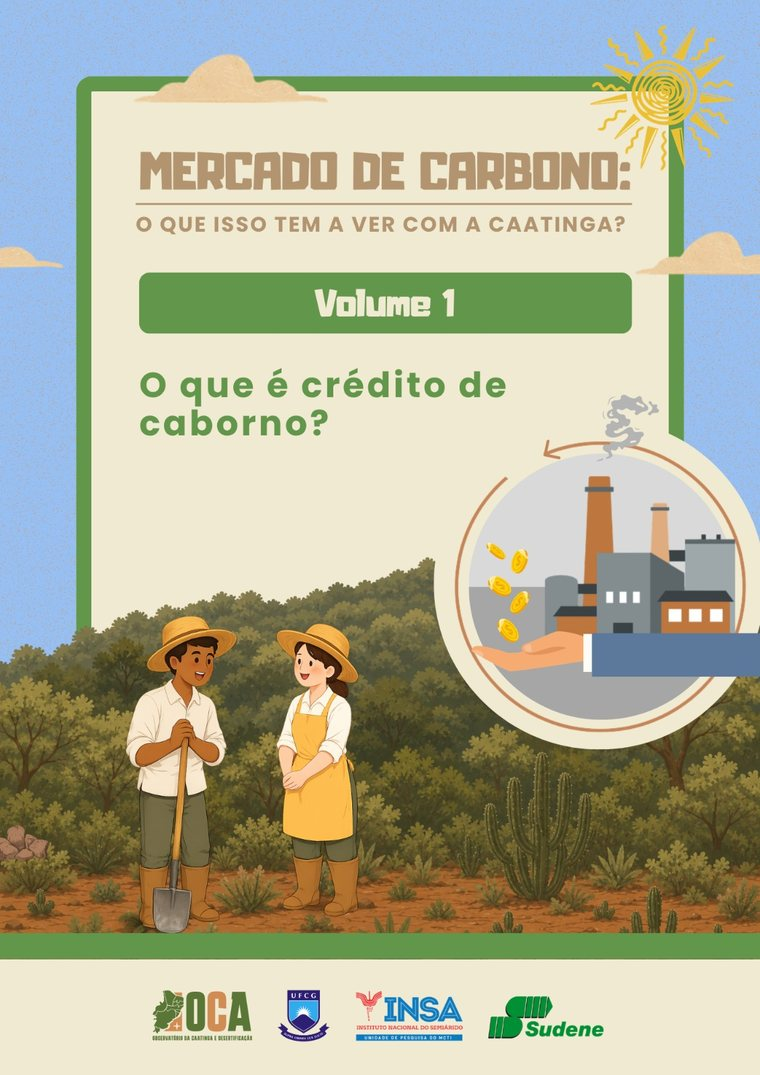
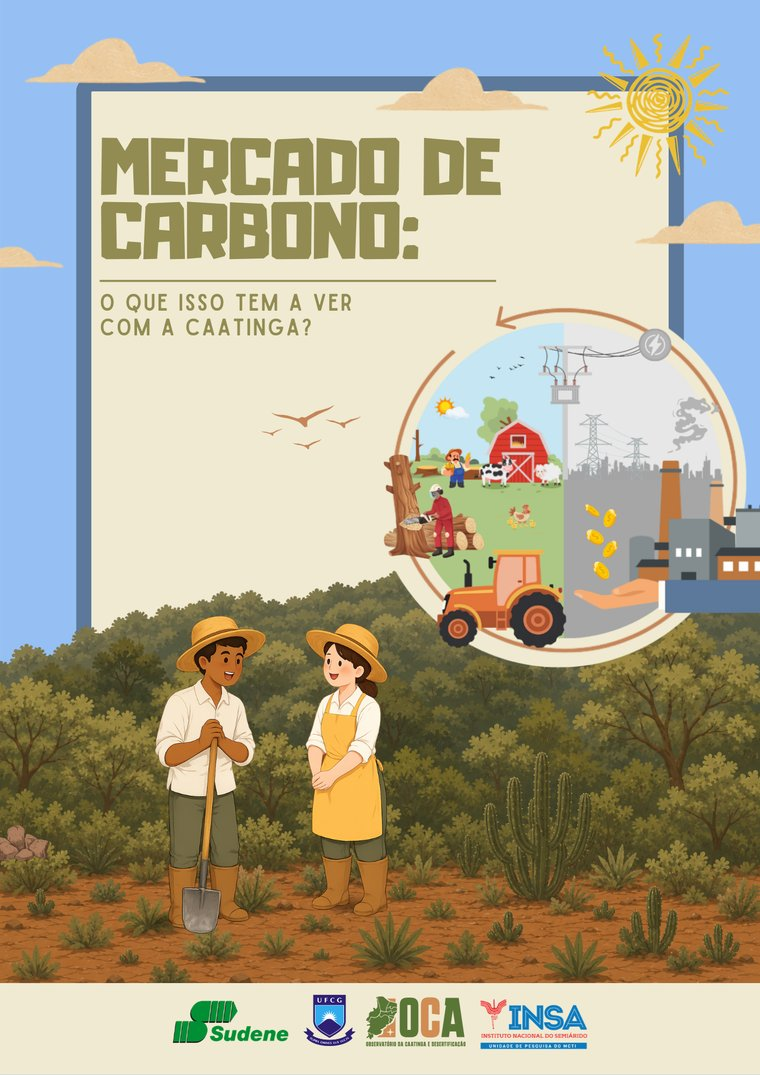
feat: ship a single cartilha with its new cover and title
The four-volume collection gave way to the one cartilha that has a PDF.
Its fallback copy now carries the cover and title of that publication,
"Mercado de carbono: o que isso tem a ver com a Caatinga?", which is also
what the Figma cards read. The slug stays, so shared links keep working.

The Contentful space was changed to match: a new cover asset on the
Volume 1 entry, the new title, and volumes 2 to 4 unpublished.

diff --git a/components/marketing/Comunicacao.tsx b/components/marketing/Comunicacao.tsx
@@ -36,21 +36,16 @@ const FOTOS: Record<string, string> = {
 // description, plus a "Ver material" button on a card that has a publication page; on
 // touch screens, which have no hover, that expanded state is the resting
 // state (see Comunicacao.module.css). The module
-// ships four cartilhas plus one caderno; the design shows exactly two cards,
-// so the choice of which ones is fixed by the task brief rather than by this
-// component: cartilhas[0] (labelled "CARTILHA") on the left and the caderno
+// ships one cartilha plus one caderno, but Contentful may hold more cartilhas;
+// the design shows exactly two cards, so the choice of which ones is fixed by
+// the task brief rather than by this component: cartilhas[0] (labelled
+// "CARTILHA") on the left and the caderno
 // (labelled "CADERNO TEMÁTICO") on the right, the design's order (18862:8581,
 // 18862:8582). The header row's "Ver mais" opens the Comunicação page, which
 // lists every publication.
 export default function Comunicacao({ conteudo }: { conteudo: ComunicacaoContent }) {
   const [primeiraCartilha] = conteudo.cartilhas;
 
-  // Known content discrepancy, left for the content owner rather than
-  // resolved here: the Figma card reads "Mercado de carbono: o que isso tem
-  // a ver com a Caatinga?", which matches none of the four DEFAULT_CARTILHAS
-  // volumes (the nearest is "A Caatinga e o carbono: qual a relação?",
-  // volume 3). This renders whatever cartilhas[0] actually holds instead of
-  // hardcoding the Figma string.
   const cards: CardData[] = [
     ...(primeiraCartilha
       ? [

diff --git a/components/marketing/conteudo/RelatedContent.tsx b/components/marketing/conteudo/RelatedContent.tsx
@@ -5,9 +5,10 @@ import styles from "./RelatedContent.module.css";
 
 // "Conteúdos Relacionados", Figma node 19015:13091: the heading, then the same
 // cards on the same auto-fill grid as the Comunicação page (Publicacoes): five
-// 236px tracks at the 1276px container. With four publications the cards keep
-// the design's width and the fifth track stays empty, since the grid fills
-// tracks rather than stretching cards; narrower, it reflows down to one column.
+// 236px tracks at the 1276px container. With fewer than five publications the
+// cards keep the design's width and the remaining tracks stay empty, since the
+// grid fills tracks rather than stretching cards; narrower, it reflows down to
+// one column.
 // The id sits on the heading, not the wrapper (tests/lib/marketingNav.test.ts).
 export default function RelatedContent({ publicacoes }: { publicacoes: Publicacao[] }) {
   if (publicacoes.length === 0) return null;

diff --git a/lib/content/comunicacao.ts b/lib/content/comunicacao.ts
@@ -46,26 +46,8 @@ export const DEFAULT_CARTILHAS: Cartilha[] = [
   {
     slug: 'cartilha-1-o-que-e-credito-de-carbono',
     volume: 'Volume 1',
-    title: 'O que é crédito de carbono?',
+    title: 'Mercado de carbono: o que isso tem a ver com a Caatinga?',
     cover: '/images/cartilhas/vol1.jpg',
-  },
-  {
-    slug: 'cartilha-2-como-funciona-o-mercado-de-carbono',
-    volume: 'Volume 2',
-    title: 'Como funciona o mercado de carbono?',
-    cover: '/images/cartilhas/vol2.jpg',
-  },
-  {
-    slug: 'cartilha-3-a-caatinga-e-o-carbono',
-    volume: 'Volume 3',
-    title: 'A Caatinga e o carbono: qual a relação?',
-    cover: '/images/cartilhas/vol3.jpg',
-  },
-  {
-    slug: 'cartilha-4-desafios-e-caminhos',
-    volume: 'Volume 4',
-    title: 'Desafios e caminhos para um mercado de carbono que beneficia a todos',
-    cover: '/images/cartilhas/vol4.jpg',
   },
 ]
 

diff --git a/tests/lib/contentfulSpace.test.ts b/tests/lib/contentfulSpace.test.ts
@@ -47,12 +47,7 @@ describe.skipIf(!isContentfulConfigured(process.env))('the configured Contentful
   it('serves the comunicacao content through the application code', async () => {
     const content = await getComunicacaoContent(getContentfulClient())
 
-    expect(content.cartilhas.map((cartilha) => cartilha.volume)).toEqual([
-      'Volume 1',
-      'Volume 2',
-      'Volume 3',
-      'Volume 4',
-    ])
+    expect(content.cartilhas.map((cartilha) => cartilha.volume)).toEqual(['Volume 1'])
     expect(content.caderno.title).toContain('A aproximação do mercado de carbono florestal')
     expect(content.fotosFormacao).toHaveLength(6)
     expect(content.fotosFormacao[0].caption).toBe('Encontro em assentamento da reforma agrária')

diff --git a/tests/lib/comunicacaoContent.test.ts b/tests/lib/comunicacaoContent.test.ts
@@ -15,11 +15,11 @@ describe('getComunicacaoContent without Contentful', () => {
   it('serves the content the landing page ships with and never touches the network', async () => {
     const content = await getComunicacaoContent(null)
 
-    expect(content.cartilhas).toHaveLength(4)
+    expect(content.cartilhas).toHaveLength(1)
     expect(content.cartilhas[0]).toEqual({
       slug: 'cartilha-1-o-que-e-credito-de-carbono',
       volume: 'Volume 1',
-      title: 'O que é crédito de carbono?',
+      title: 'Mercado de carbono: o que isso tem a ver com a Caatinga?',
       cover: '/images/cartilhas/vol1.jpg',
     })
     expect(content.caderno.title).toContain('A aproximação do mercado de carbono florestal')

diff --git a/IMAGENS.md b/IMAGENS.md
@@ -14,16 +14,16 @@ Fotos de autoria de Artur Lourenço, originais no zip `../fotos/photos_caatinga.
 
 ## Cartilhas (public/images/cartilhas/)
 
-Capas da coleção "Mercado de carbono: o que isso tem a ver com a Caatinga?", produzida por OCA, UFCG, INSA e SUDENE, usadas na seção Comunicação. Originais em `../cartilhas` (PNG de ~2,4 MB cada), reduzidos e convertidos para JPEG (largura 760 px, ~120 KB) por um passo com Pillow.
+Capas das publicações usadas na seção Comunicação, reduzidas e convertidas para JPEG (760×1075, ~130 KB) por um passo com Pillow.
 
 | Arquivo | Origem | Uso |
 |---|---|---|
-| `vol1.jpg` a `vol4.jpg` | `cartilhas/01.png` a `04.png` | Grade dos 4 volumes |
+| `vol1.jpg` | `CAPA (10).png` (1414×2000), recebida em 06/10/2026 | Capa da cartilha "Mercado de carbono: o que isso tem a ver com a Caatinga?", produzida por OCA, UFCG, INSA e SUDENE |
 | `caderno.jpg` | página 1 do PDF final do caderno (29/09/2026), renderizada com Ghostscript a 150 dpi e reduzida para 760×1075 | Capa do caderno temático |
 
 `colecao_banner.jpg` (recorte de `cartilhas/todas.png`, usado no remate da seção) foi removido junto com o trecho que o usava; o arquivo não existe mais em `public/images/cartilhas/`.
 
-Observação: a capa do Volume 1 tem um erro de digitação na arte ("O que é crédito de caborno?"). A legenda na landing usa a grafia correta ("carbono"). Para corrigir a imagem, é preciso editar o arquivo original da cartilha. O `todas.png` traz um quadrado de QR em branco (placeholder de impressão); por isso a landing usa o recorte sem essa área.
+Em 06/10/2026 a coleção de quatro volumes (`vol1.jpg` a `vol4.jpg`, de `../cartilhas/01.png` a `04.png`) deu lugar a uma única cartilha, a que tem PDF publicado. `vol2.jpg` a `vol4.jpg` foram removidos, e as entries dos volumes 2 a 4 foram despublicadas no Contentful, onde continuam como rascunho. A capa nova substituiu a do Volume 1 nas duas cópias: o asset no Contentful, que a página usa, e o `vol1.jpg`, que só entra no fallback. Com ela saiu também o erro de digitação da arte antiga ("O que é crédito de caborno?").
 
 A capa do caderno vem da versão final da publicação ("Caderno temático… desafios, riscos e perspectivas"), que substituiu a arte antiga ("Boletim temático… Desafios, Ameaças e Perspectivas") em 29/09/2026, junto com o título. A troca foi feita nas duas cópias: o asset da capa no Contentful, que a página usa, e o `caderno.jpg`, que só entra no fallback.
 

diff --git a/DOCUMENTACAO.md b/DOCUMENTACAO.md
@@ -172,7 +172,7 @@ A landing antiga tinha nove seções; a nova, seis. `Sazonalidade` (a paleta men
 
 Três blocos da landing vêm do Contentful, quando configurado: a coleção de cartilhas, o caderno temático em destaque e as fotos do carrossel da Formação cidadã (hoje sem consumidor na página — ver acima). O restante da página segue no código, inclusive os cartões de números com as suas fontes e as fotos do hero.
 
-O acesso é server-side (`lib/contentful.ts`, com `import 'server-only'`), pela API GraphQL de entrega, e as credenciais nunca levam o prefixo `NEXT_PUBLIC_`. O repositório `lib/content/comunicacao.ts` traduz as entries para o formato que a página consome e aplica o padrão por seção: se a coleção de cartilhas vier vazia, entram as quatro cartilhas do código; se a requisição falhar, entra o conteúdo padrão inteiro e o erro vai para o log. É o que permite ao `npm run build` do CI rodar sem qualquer variável do Contentful.
+O acesso é server-side (`lib/contentful.ts`, com `import 'server-only'`), pela API GraphQL de entrega, e as credenciais nunca levam o prefixo `NEXT_PUBLIC_`. O repositório `lib/content/comunicacao.ts` traduz as entries para o formato que a página consome e aplica o padrão por seção: se a coleção de cartilhas vier vazia, entra a cartilha do código; se a requisição falhar, entra o conteúdo padrão inteiro e o erro vai para o log. É o que permite ao `npm run build` do CI rodar sem qualquer variável do Contentful.
 
 Modelo de conteúdo, criado por `npm run contentful:provision` (IDs dos campos em inglês, como a query pede; nomes de exibição em português, que é o que o editor lê):
 
